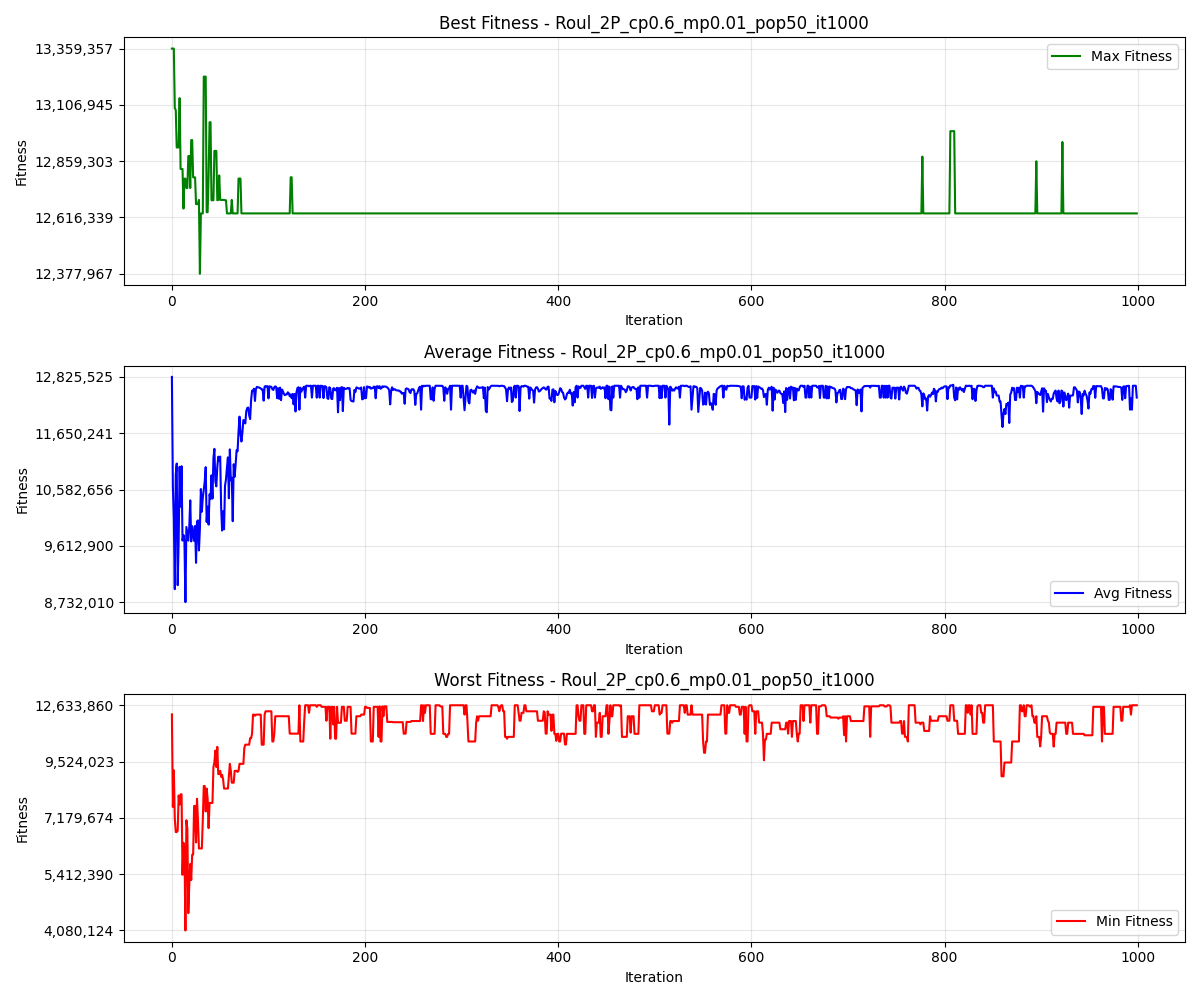
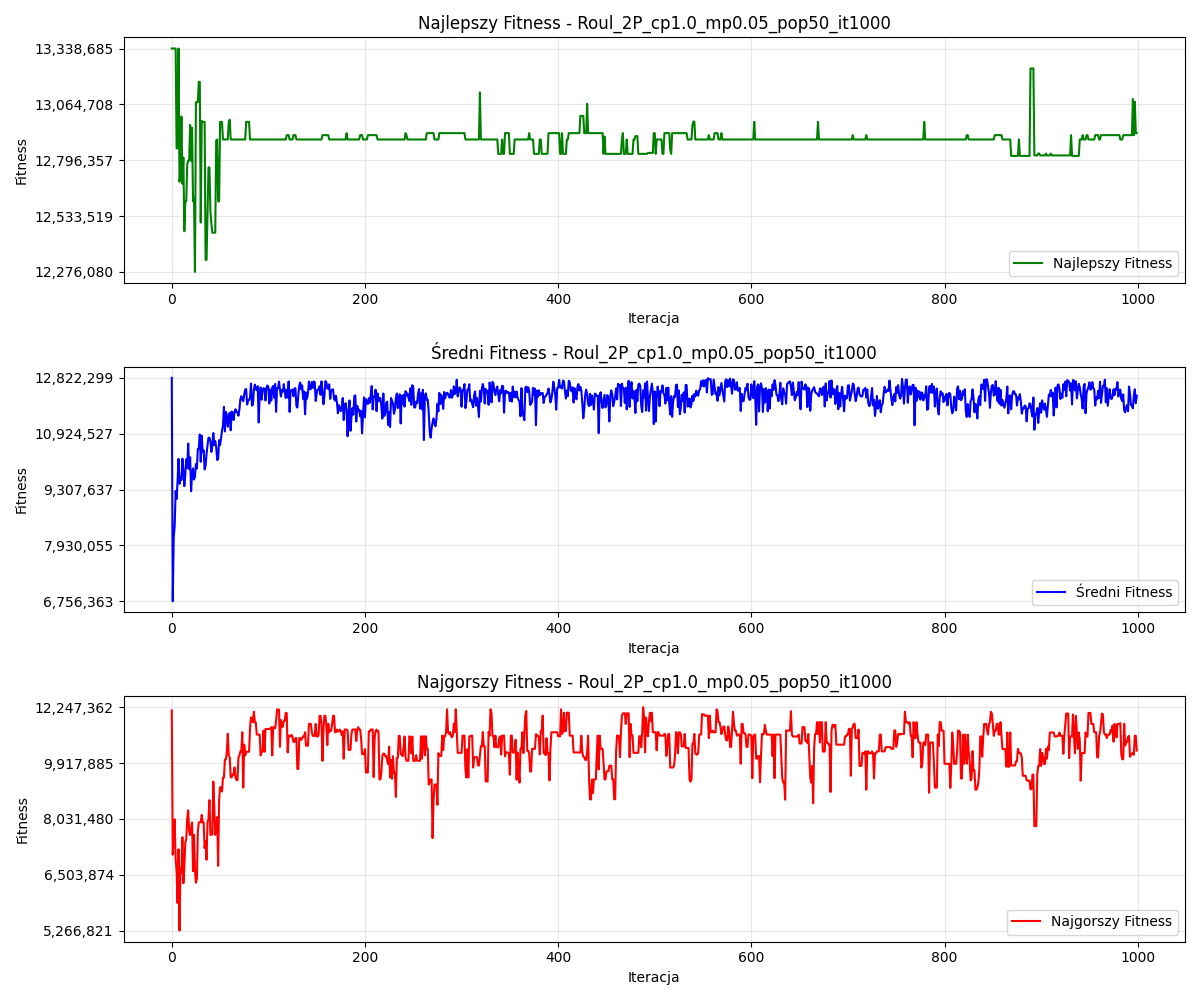
feat: enhance experiment analysis by adding best and worst fitness tracking and visualizations

diff --git a/zadanie3/src/plots.py b/zadanie3/src/plots.py
@@ -111,20 +111,20 @@ def plot_over_time(csv_filename: str,
     metrics = {
         0: {
             'data': [h['best_fitness'] for h in history],
-            'label': 'Max Fitness',
-            'title': 'Best Fitness',
+            'label': 'Najlepszy Fitness',
+            'title': 'Najlepszy Fitness',
             'color': 'green'
         },
         1: {
             'data': [h['avg_fitness'] for h in history],
-            'label': 'Avg Fitness',
-            'title': 'Average Fitness',
+            'label': 'Średni Fitness',
+            'title': 'Średni Fitness',
             'color': 'blue'
         },
         2: {
             'data': [h['worst_fitness'] for h in history],
-            'label': 'Min Fitness',
-            'title': 'Worst Fitness',
+            'label': 'Najgorszy Fitness',
+            'title': 'Najgorszy Fitness',
             'color': 'red'
         }
     }
@@ -134,7 +134,7 @@ def plot_over_time(csv_filename: str,
     for idx, metric in metrics.items():
         axes[idx].plot(iterations, metric['data'],
                        label=metric['label'], color=metric['color'])
-        axes[idx].set_xlabel('Iteration')
+        axes[idx].set_xlabel('Iteracja')
         axes[idx].set_ylabel('Fitness')
         axes[idx].set_title(f"{metric['title']} - {config_name}")
         axes[idx].set_yscale('log')
@@ -199,9 +199,9 @@ def analyze_csv_results(
 
         if verbose:
             print(f"\n{filename}:")
-            print(f"  Best fitness: {best_fitness:,.0f}")
-            print(f"  Avg best fitness: {avg_best_fitness:,.2f}")
-            print(f"  Number of runs: {len(best_fitness_per_run)}")
+            print(f"Best fitness: {best_fitness:,.0f}")
+            print(f"Avg best fitness: {avg_best_fitness:,.2f}")
+            print(f"Number of runs: {len(best_fitness_per_run)}")
 
     return results
 
@@ -241,9 +241,9 @@ def find_best_worst_by_prefix(results: dict) -> dict:
 
     for label, (config, data) in selected.items():
         print(f"\n{label}:")
-        print(f"  Konfiguracja: {config}")
-        print(f"  Best fitness: {data['best_fitness']:,.0f}")
-        print(f"  Avg best fitness: {data['avg_best_fitness']:,.2f}")
+        print(f"Konfiguracja: {config}")
+        print(f"Best fitness: {data['best_fitness']:,.0f}")
+        print(f"Avg best fitness: {data['avg_best_fitness']:,.2f}")
 
     return selected
 
@@ -284,12 +284,132 @@ def plot_selected_configurations(selected: dict) -> None:
         )
 
 
+def parse_filename(filename: str) -> dict:
+    parts = filename.replace('.csv', '').split('_')
+
+    params = {}
+    for part in parts:
+        if part.startswith('cp'):
+            params['cross_prob'] = float(part[2:])
+        elif part.startswith('mp'):
+            params['mutation_prob'] = float(part[2:])
+        elif part.startswith('pop'):
+            params['population'] = int(part[3:])
+        elif part.startswith('it'):
+            params['iterations'] = int(part[2:])
+
+    if parts[0] in ['Tour', 'Roul']:
+        params['selection'] = parts[0]
+    if len(parts) > 1 and parts[1] in ['1P', '2P']:
+        params['crossover'] = parts[1]
+
+    return params
+
+
+def plot_parameter_influence(results_dir: str = "../results") -> None:
+    print("\n" + "=" * 80)
+    print("ANALIZA WPŁYWU PARAMETRÓW")
+    print("=" * 80)
+
+    csv_files = sorted(Path(results_dir).glob("*.csv"))
+
+    all_data = []
+    for csv_file in csv_files:
+        df = pd.read_csv(csv_file)
+        params = parse_filename(csv_file.name)
+
+        best_fitness_per_run = df.groupby('run_id')['best_fitness'].max()
+
+        for fitness in best_fitness_per_run:
+            all_data.append({
+                'cross_prob': params.get('cross_prob'),
+                'mutation_prob': params.get('mutation_prob'),
+                'population': params.get('population'),
+                'best_fitness': fitness
+            })
+
+    df_all = pd.DataFrame(all_data)
+
+    print("\nGenerowanie wykresu: wpływ Pc...")
+    pc_values = sorted(df_all['cross_prob'].unique())
+    pc_data = [df_all[df_all['cross_prob'] == pc]['best_fitness'].values for pc in pc_values]
+
+    fig, ax = plt.subplots(figsize=(10, 7))
+    ax.boxplot(pc_data, tick_labels=[f'{pc:.1f}' for pc in pc_values])
+    ax.set_xlabel('Prawdopodobieństwo krzyżowania (Pc)', fontsize=14)
+    ax.set_ylabel('Fitness', fontsize=14)
+    ax.set_title('Wpływ prawdopodobieństwa krzyżowania na wyniki', fontsize=16, fontweight='bold')
+    ax.grid(True, alpha=0.3, axis='y')
+    ax.yaxis.set_major_formatter(ticker.FuncFormatter(lambda x, p: f'{int(x):,}'))
+
+    plt.tight_layout()
+    plt.savefig('../plots/influence_cross_probability.png', dpi=300)
+    plt.close()
+    print("Zapisano: ../plots/influence_cross_probability.png")
+
+    print("Generowanie wykresu: wpływ Pm...")
+    pm_values = sorted(df_all['mutation_prob'].unique())
+    pm_data = [df_all[df_all['mutation_prob'] == pm]['best_fitness'].values for pm in pm_values]
+
+    fig, ax = plt.subplots(figsize=(10, 7))
+    ax.boxplot(pm_data, tick_labels=[f'{pm:.2f}' for pm in pm_values])
+    ax.set_xlabel('Prawdopodobieństwo mutacji (Pm)', fontsize=14)
+    ax.set_ylabel('Fitness', fontsize=14)
+    ax.set_title('Wpływ prawdopodobieństwa mutacji na wyniki', fontsize=16, fontweight='bold')
+    ax.grid(True, alpha=0.3, axis='y')
+    ax.yaxis.set_major_formatter(ticker.FuncFormatter(lambda x, p: f'{int(x):,}'))
+
+    plt.tight_layout()
+    plt.savefig('../plots/influence_mutation_probability.png', dpi=300)
+    plt.close()
+    print("Zapisano: ../plots/influence_mutation_probability.png")
+
+    print("Generowanie wykresu: wpływ N...")
+    pop_values = sorted(df_all['population'].unique())
+    pop_data = [df_all[df_all['population'] == pop]['best_fitness'].values for pop in pop_values]
+
+    fig, ax = plt.subplots(figsize=(10, 7))
+    ax.boxplot(pop_data, tick_labels=[f'{pop}' for pop in pop_values])
+    ax.set_xlabel('Wielkość populacji (N)', fontsize=14)
+    ax.set_ylabel('Fitness', fontsize=14)
+    ax.set_title('Wpływ wielkości populacji na wyniki', fontsize=16, fontweight='bold')
+    ax.grid(True, alpha=0.3, axis='y')
+    ax.yaxis.set_major_formatter(ticker.FuncFormatter(lambda x, p: f'{int(x):,}'))
+
+    plt.tight_layout()
+    plt.savefig('../plots/influence_population_size.png', dpi=300)
+    plt.close()
+    print("Zapisano: ../plots/influence_population_size.png")
+
+    print("\n" + "-" * 80)
+    print("STATYSTYKI WPŁYWU PARAMETRÓW:")
+    print("-" * 80)
+
+    print("\n1. Prawdopodobieństwo krzyżowania (Pc):")
+    for pc in pc_values:
+        data = df_all[df_all['cross_prob'] == pc]['best_fitness']
+        print(f"Pc={pc:.1f}: średnia={data.mean():,.0f}, mediana={data.median():,.0f}, "
+              f"std={data.std():,.0f}, min={data.min():,.0f}, max={data.max():,.0f}")
+
+    print("\n2. Prawdopodobieństwo mutacji (Pm):")
+    for pm in pm_values:
+        data = df_all[df_all['mutation_prob'] == pm]['best_fitness']
+        print(f"Pm={pm:.2f}: średnia={data.mean():,.0f}, mediana={data.median():,.0f}, "
+              f"std={data.std():,.0f}, min={data.min():,.0f}, max={data.max():,.0f}")
+
+    print("\n3. Wielkość populacji (N):")
+    for pop in pop_values:
+        data = df_all[df_all['population'] == pop]['best_fitness']
+        print(f"N={pop}: średnia={data.mean():,.0f}, mediana={data.median():,.0f}, "
+              f"std={data.std():,.0f}, min={data.min():,.0f}, max={data.max():,.0f}")
+
+
 def main():
     print("=" * 80)
     print("ANALIZA WYNIKÓW Z PLIKÓW CSV")
     print("=" * 80)
 
-    results = analyze_csv_results("../results", verbose=True)
+    results = analyze_csv_results("../results")
 
     print(f"\n\n{'=' * 60}")
     print(f"Podsumowanie: przeanalizowano {len(results)} plików")
@@ -298,6 +418,8 @@ def main():
     selected = find_best_worst_by_prefix(results)
 
     plot_selected_configurations(selected)
+
+    plot_parameter_influence("../results")
 
     print("\n" + "=" * 60)
     print("ZAKOŃCZONO - Wszystkie wykresy zapisane w katalogu ../plots/")
@@ -313,6 +435,12 @@ def main():
           "wykres over-time dla najlepszej konfiguracji Roulette")
     print("  5. Roul_Worst_over_time.png - "
           "wykres over-time dla najgorszej konfiguracji Roulette")
+    print("  6. influence_cross_probability.png - "
+          "box plot wpływu prawdopodobieństwa krzyżowania (Pc)")
+    print("  7. influence_mutation_probability.png - "
+          "box plot wpływu prawdopodobieństwa mutacji (Pm)")
+    print("  8. influence_population_size.png - "
+          "box plot wpływu wielkości populacji (N)")
     print("=" * 80 + "\n")
 
 

diff --git a/zadanie3/src/all_experiments.py b/zadanie3/src/all_experiments.py
@@ -61,19 +61,12 @@ def main():
             items=data_csv
         )
 
-        best_result = {
-            "best_fitness": 0,
-            "best_individual": None
-        }
-
-        worst_result = {
-            "worst_fitness": float('inf'),
-            "worst_individual": None
-        }
-
-        avg_result_value = 0.0
         exec_time = 0.0
 
+        best_fitness_values = []
+        best_individuals = []
+        worst_fitness_values = []
+        worst_individuals = []
         all_runs_history = []
 
         for i in range(5):
@@ -90,24 +83,49 @@ def main():
                 entry['execution_time'] = result['execution_time']
             all_runs_history.extend(history)
 
-            if result["best_fitness"] > best_result["best_fitness"]:
-                best_result["best_fitness"] = result["best_fitness"]
-                best_result["best_individual"] = result["best_individual"]
-            if result["best_fitness"] < worst_result["worst_fitness"]:
-                worst_result["worst_fitness"] = result["best_fitness"]
-                worst_result["worst_individual"] = result["best_individual"]
-            avg_result_value += result["best_fitness"]
+            best_fitness_values.append(result["best_fitness"])
+            best_individuals.append(result["best_individual"])
+            worst_fitness_values.append(result["worst_fitness"])
+            worst_individuals.append(result["worst_individual"])
             exec_time += result["execution_time"]
 
-        # Save history to CSV
         pd.DataFrame(all_runs_history).to_csv(filepath, index=False)
 
-        print(f'Najlepszy wynik: {best_result["best_fitness"]} - '
-              f'({best_result["best_individual"]})\n'
-              f'Najgorszy wynik: {worst_result["worst_fitness"]} - '
-              f'({worst_result["worst_individual"]})\n'
-              f'Średni wynik: {avg_result_value / 5}\n'
-              f'Czas wykonania 5 uruchomień: {exec_time:.3f} sekund\n')
+        stats = pd.Series(best_fitness_values)
+
+        best_idx = best_fitness_values.index(max(best_fitness_values))
+        best_solution = best_individuals[best_idx]
+        best_value = best_fitness_values[best_idx]
+
+        selected_items_best = [i for i, gene in enumerate(best_solution) if gene == 1]
+        total_weight_best = sum(data_csv.iloc[i]["Waga"] for i in selected_items_best)
+        items_names_best = [data_csv.iloc[i]["Nazwa"] for i in selected_items_best]
+
+        worst_idx = worst_fitness_values.index(min(worst_fitness_values))
+        worst_solution = worst_individuals[worst_idx]
+        worst_value = worst_fitness_values[worst_idx]
+
+        selected_items_worst = [i for i, gene in enumerate(worst_solution) if gene == 1]
+        total_weight_worst = sum(data_csv.iloc[i]["Waga"] for i in selected_items_worst)
+        items_names_worst = [data_csv.iloc[i]["Nazwa"] for i in selected_items_worst]
+
+        print(f'Średnia: {stats.mean():.0f}\n'
+              f'Mediana: {stats.median():.0f}\n'
+              f'Min: {stats.min():.0f}\n'
+              f'Max: {stats.max():.0f}\n'
+              f'Odchylenie standardowe: {stats.std():.0f}\n'
+              f'Czas wykonania 5 uruchomień: {exec_time:.3f}s '
+              f'(średni czas na uruchomienie: {exec_time/5:.3f}s)\n'
+              f'\nNajlepsze rozwiązanie:\n'
+              f'Wartość plecaka: {best_value:.0f}\n'
+              f'Waga plecaka: {total_weight_best:.0f} / {ga.MAX_WEIGHT}\n'
+              f'Liczba przedmiotów: {len(selected_items_best)}\n'
+              f'Zawartość: {", ".join(items_names_best)}\n'
+              f'\nNajgorsze rozwiązanie:\n'
+              f'Wartość plecaka: {worst_value:.0f}\n'
+              f'Waga plecaka: {total_weight_worst:.0f} / {ga.MAX_WEIGHT}\n'
+              f'Liczba przedmiotów: {len(selected_items_worst)}\n'
+              f'Zawartość: {", ".join(items_names_worst)}\n')
 
 
 if __name__ == "__main__":

diff --git a/zadanie3/src/genetic_algorithm.py b/zadanie3/src/genetic_algorithm.py
@@ -85,6 +85,8 @@ class GeneticAlgorithm:
 
         best_overall_individual = None
         best_overall_fitness = -1
+        worst_overall_individual = None
+        worst_overall_fitness = float('inf')
 
         for i in range(iterations):
             fitness_values = self.calculate_fitness(population)
@@ -92,8 +94,17 @@ class GeneticAlgorithm:
             current_best_fitness = max(fitness_values)
             if current_best_fitness > best_overall_fitness:
                 best_overall_fitness = current_best_fitness
-                best_individual_index = fitness_values.index(current_best_fitness)
+                best_individual_index = fitness_values.index(
+                    current_best_fitness)
                 best_overall_individual = population[best_individual_index]
+
+            valid_fitness = [(f, idx) for idx, f in enumerate(fitness_values) if f > 0]
+            if valid_fitness:
+                current_worst_fitness = min(valid_fitness, key=lambda x: x[0])[0]
+                if current_worst_fitness < worst_overall_fitness:
+                    worst_overall_fitness = current_worst_fitness
+                    worst_individual_index = min(valid_fitness, key=lambda x: x[0])[1]
+                    worst_overall_individual = population[worst_individual_index]
 
             history.append(
                 {
@@ -121,6 +132,8 @@ class GeneticAlgorithm:
         final_solution = {
             "best_individual": best_overall_individual,
             "best_fitness": best_overall_fitness,
+            "worst_individual": worst_overall_individual,
+            "worst_fitness": worst_overall_fitness,
             "execution_time": end_time - start_time
         }
         return final_solution, history
